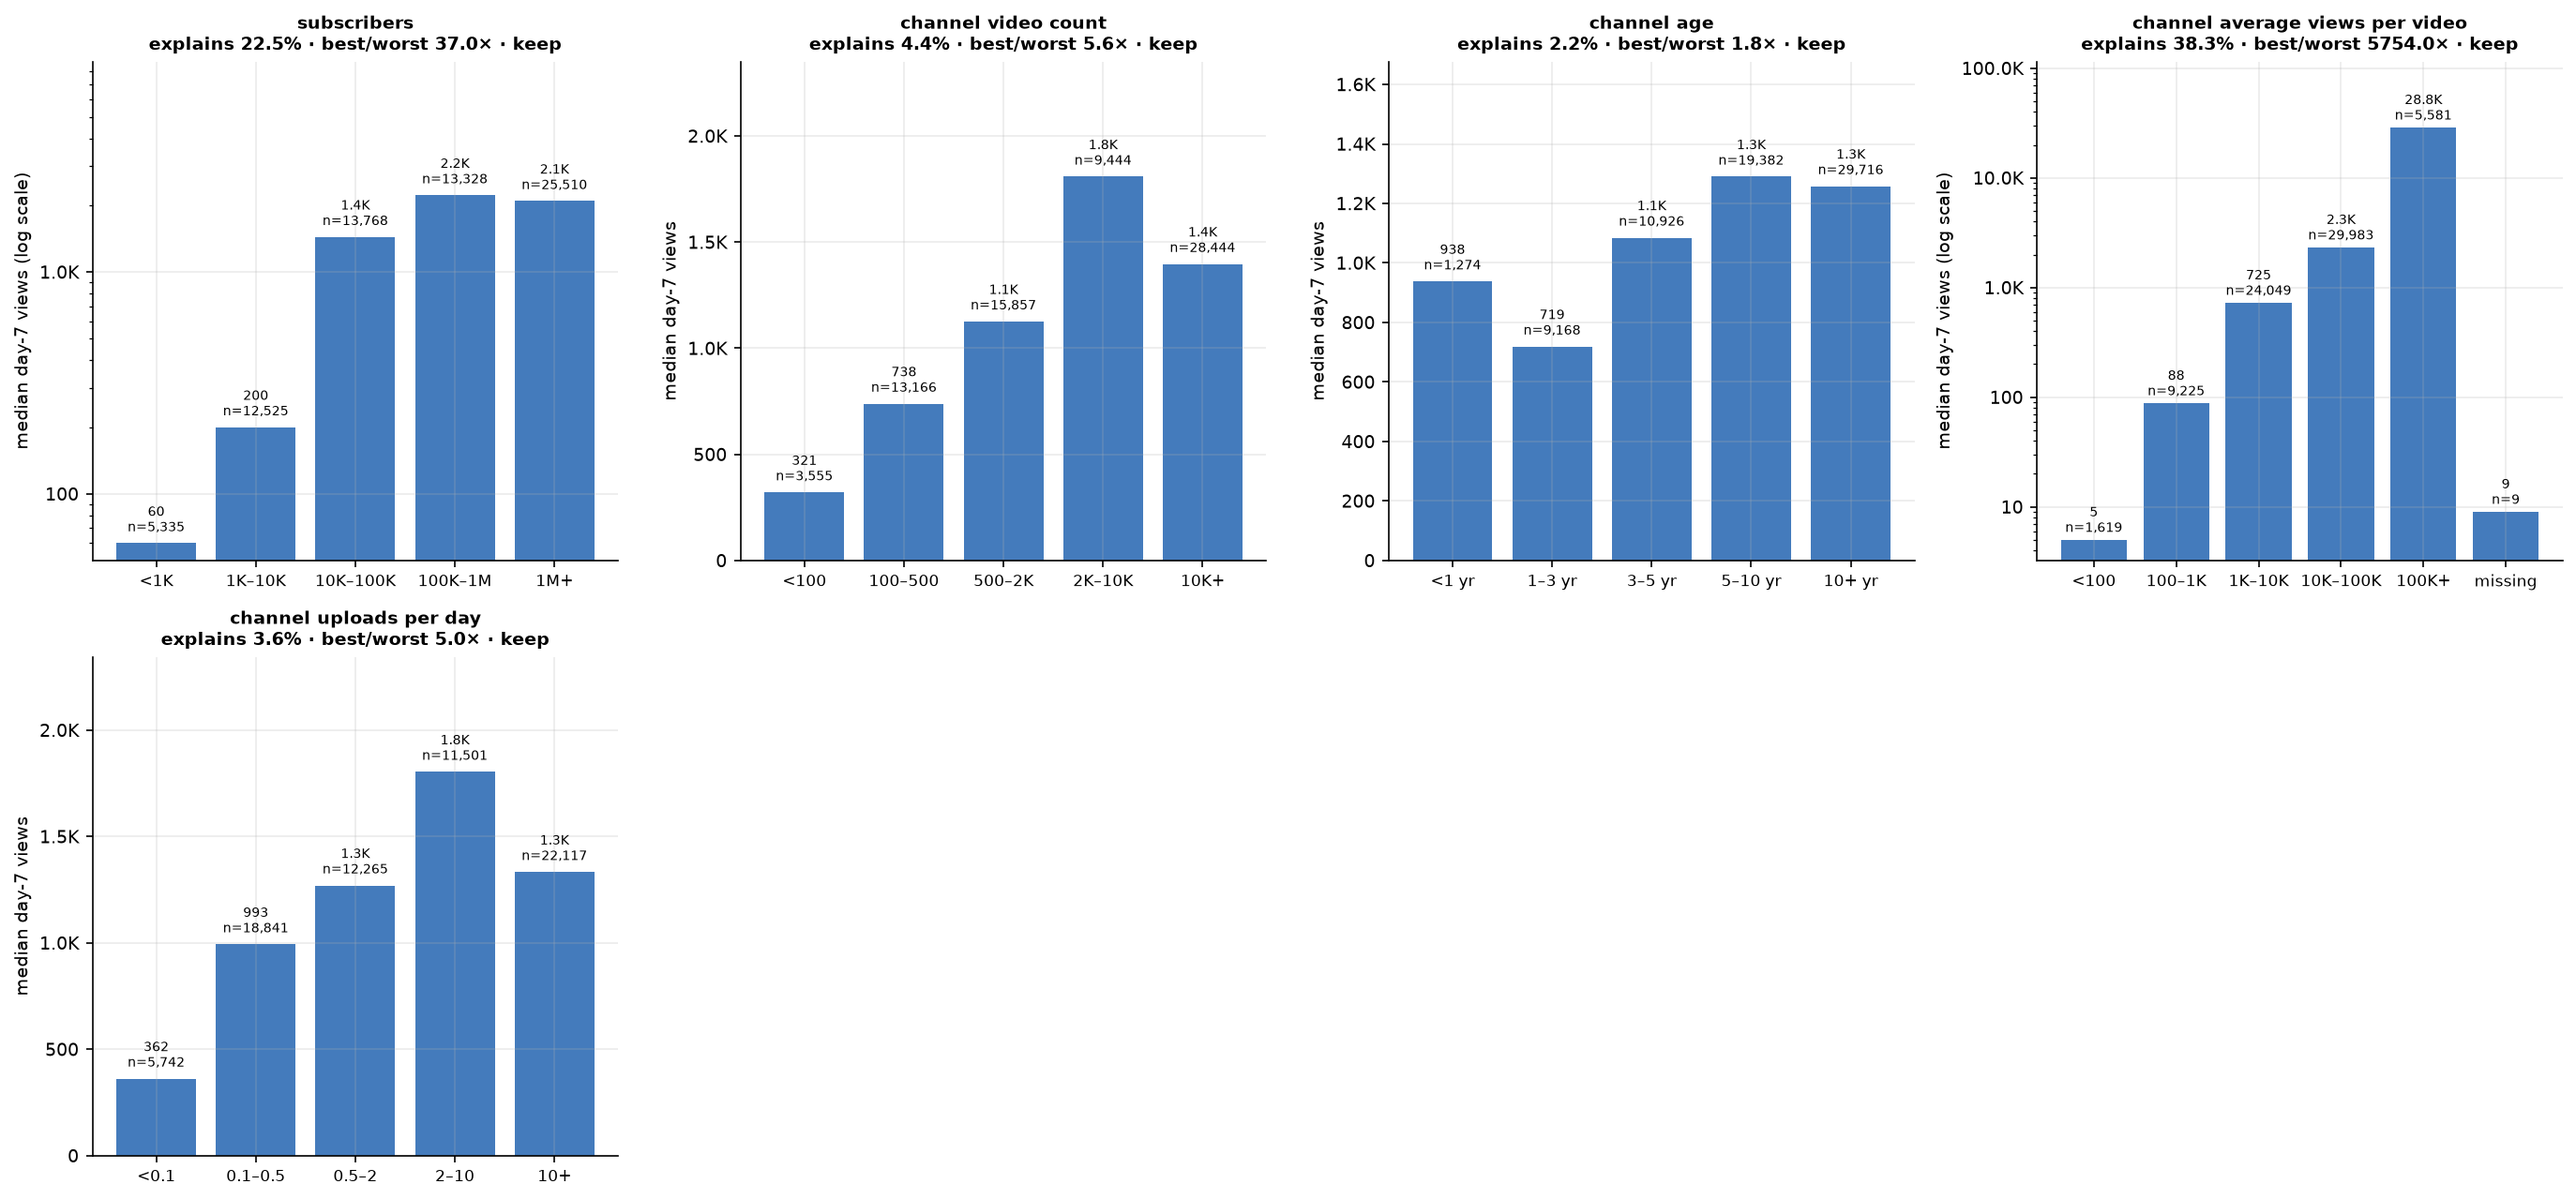
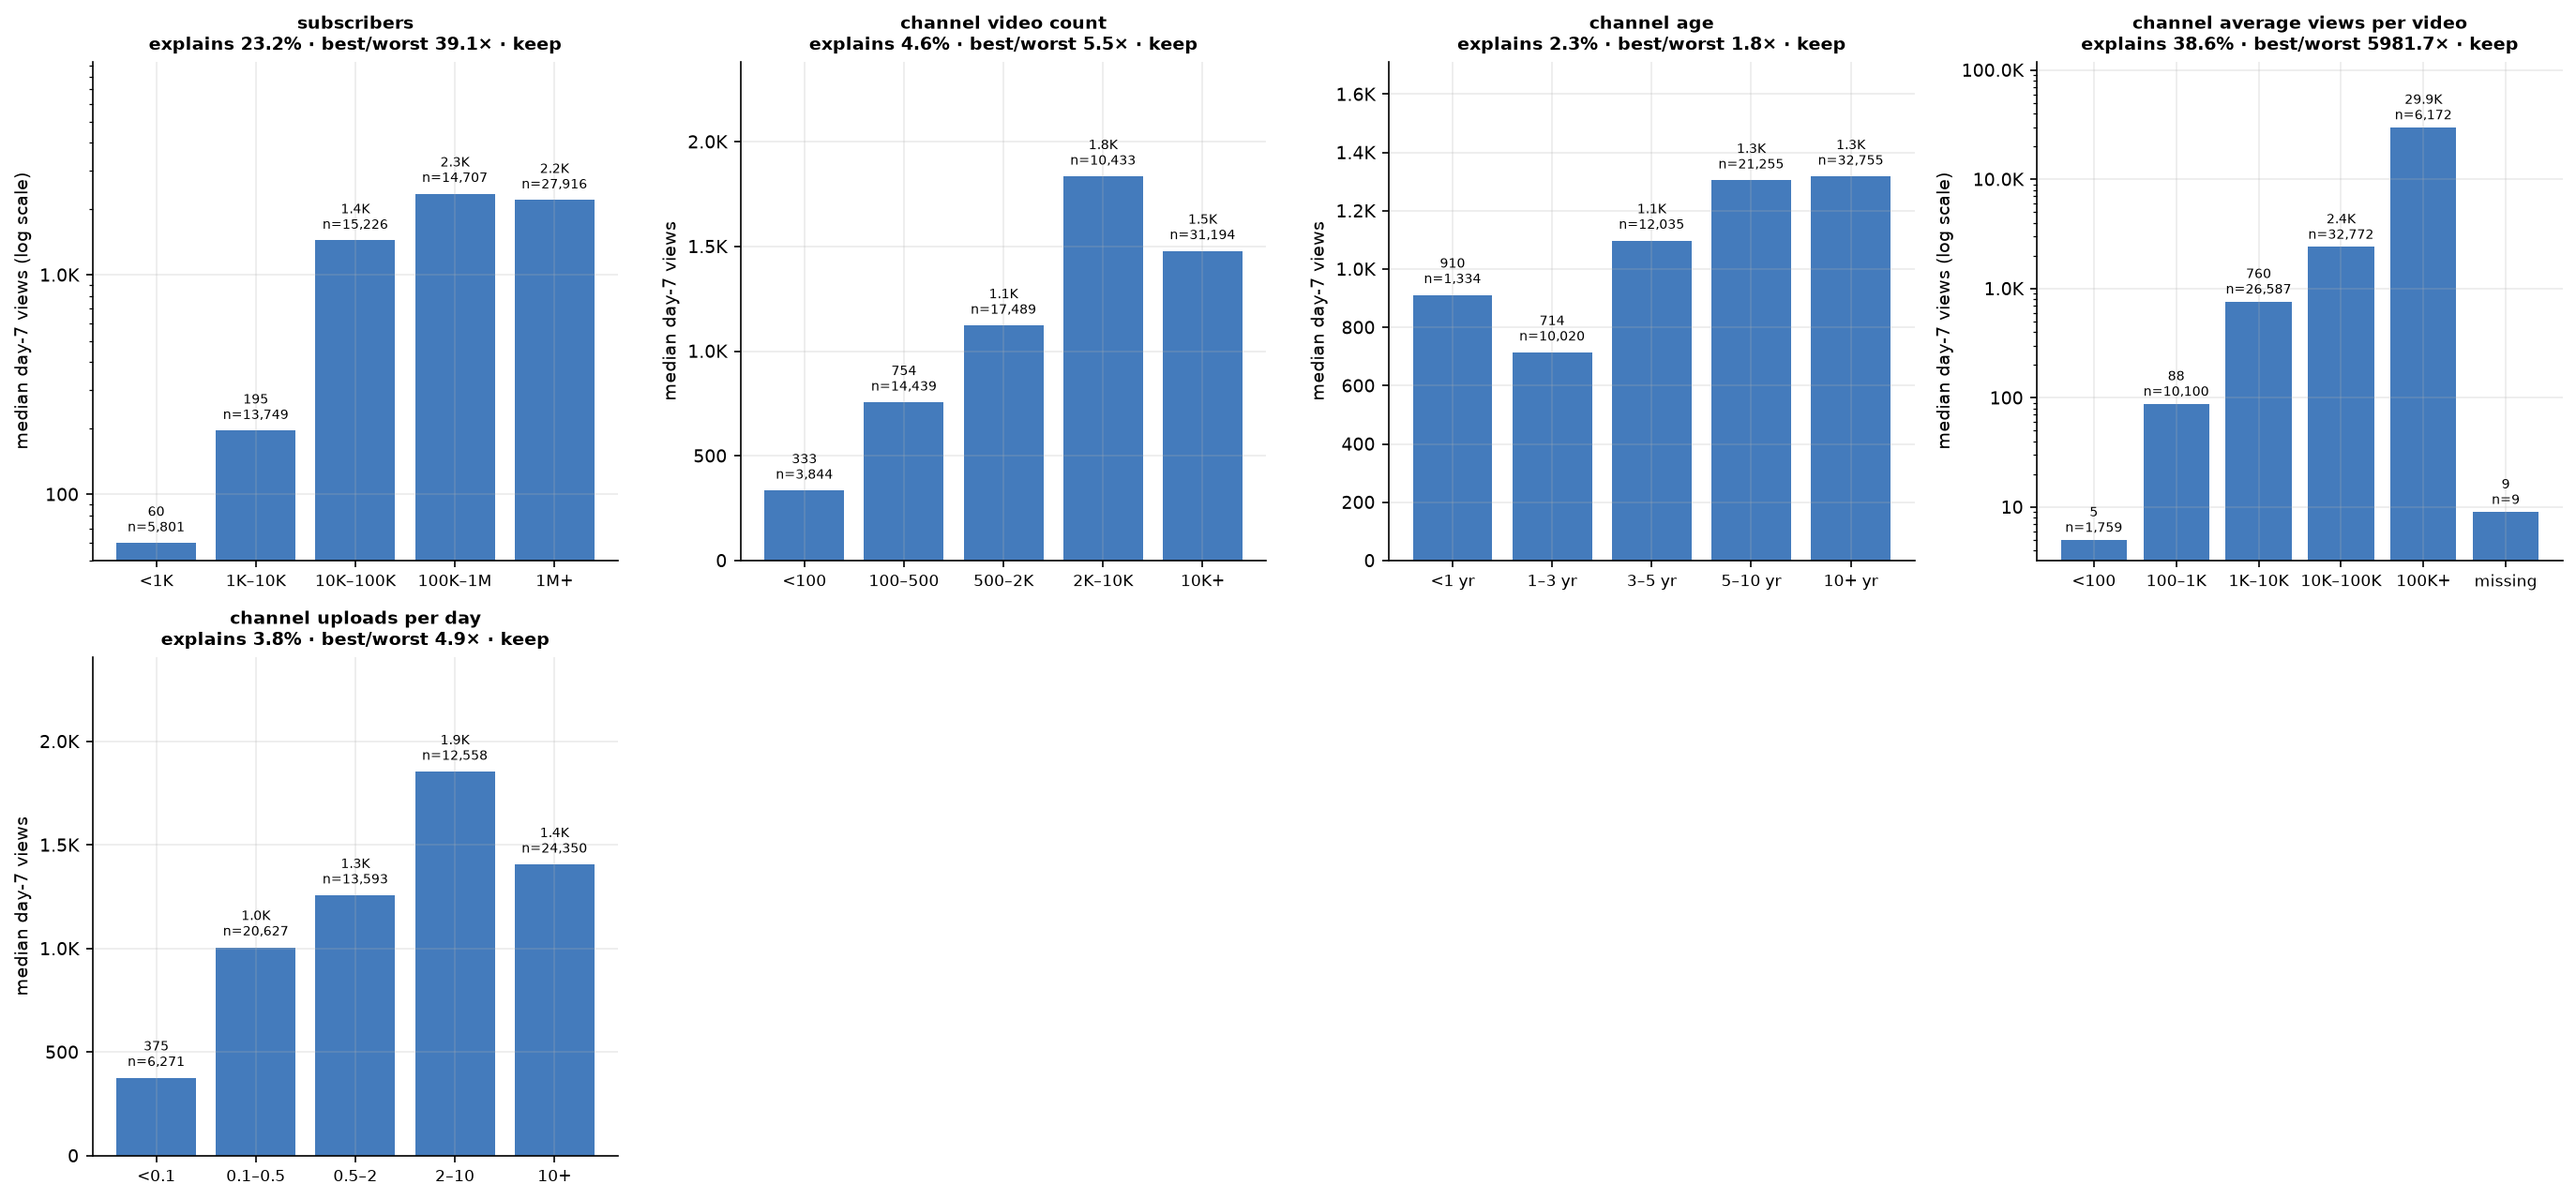
Use the real Shorts flag in the simple feature EDA
The simple feature EDA split Shorts by duration bands. It now reads is_short
from the 18 September build, which comes from the player shape. With the real
flag Shorts get more day-7 views than long-form in every channel size band
(6 to 13 times more under 10K subscribers); within a single channel they beat
its own long-form for 56 to 72% of channels under 100K and about 40% of larger
ones. The earlier finding that long-form wins at 1M+ came from the old <=60 s
rule. FEATURE_RECOMMENDATIONS.md updated to match.

diff --git a/Analysis/build_simple_feature_eda.py b/Analysis/build_simple_feature_eda.py
@@ -87,11 +87,11 @@ def load():
 
     f["duration"] = cut(num("duration_seconds") / 60, [0, 1, 5, 20, 60, inf],
                         ["<1 min", "1–5 min", "5–20 min", "20–60 min", "60+ min"])
-    # YouTube has allowed Shorts up to 3 minutes since October 2024 and the API
-    # has no Shorts flag, so 61 s to 3 min is a mix of Shorts and short
-    # long-form clips. It is kept separate instead of being called long-form.
-    f["Short or long-form"] = cut(num("duration_seconds"), [0, 61, 181, inf],
-                                  ["Short (≤60s)", "61s–3 min (mixed)", "long-form (>3 min)"])
+    # is_short is the real format from the player shape (vertical or square
+    # and at most 3 minutes), not the old duration <= 60 s rule.
+    f["Short or long-form"] = pd.Categorical(
+        d.is_short.fillna(False).astype(bool).map({True: "Short", False: "long-form"}),
+        categories=["Short", "long-form"], ordered=True)
     f["category"] = d.category_name.astype("string")
     lang = d.default_audio_language.astype("string").str.lower().str.split("-").str[0]
     f["audio language"] = lang.where(lang.isin(["si", "en", "ta"]), "other/unknown").map(
@@ -144,8 +144,9 @@ SOURCE = {
 }
 DUPLICATES = {"title word count": "title length (characters)", "weekend": "publish weekday"}
 # Features whose raw comparison is misleading, with the reason (see SF7).
-OVERRIDES = {"Short or long-form": ("keep", "hidden overall by 1M+ channels; for channels under 10K "
-                                             "subscribers Shorts get 6 to 9 times the views (SF7)")}
+OVERRIDES = {"Short or long-form": ("keep", "hidden overall because channel size is mixed in; within "
+                                             "each size band Shorts get more views, 6 to 13 times more "
+                                             "under 10K subscribers (SF7)")}
 PAGES = {
     "SF2_channel_features": ["subscribers", "channel video count", "channel age",
                              "channel average views per video", "channel uploads per day"],
@@ -303,18 +304,18 @@ def shorts_by_channel_size(d, f):
     """SF7: Shorts against long-form within each channel size, and within each channel."""
     fmt, tier = f["Short or long-form"], f["subscribers"]
     names = list(fmt.cat.categories)
-    colours = ["#2F6DB5", "#B8C2CC", "#E08B4B"]
+    colours = ["#2F6DB5", "#E08B4B"]
     tiers = [t for t in tier.cat.categories if (tier == t).sum() >= MIN_N]
     med = d.views.groupby([tier, fmt], observed=True).median().unstack()
     cnt = d.views.groupby([tier, fmt], observed=True).size().unstack()
 
     fig, (a, b) = plt.subplots(1, 2, figsize=(14, 5.2), gridspec_kw={"width_ratios": [3, 2]})
-    x, w = np.arange(len(tiers)), .27
+    x, w = np.arange(len(tiers)), .36
     for i, (name, c) in enumerate(zip(names, colours)):
         m = med.reindex(tiers)[name]
-        a.bar(x + (i - 1) * w, m, w, color=c, label=name)
+        a.bar(x + (i - .5) * w, m, w, color=c, label=name)
         for xi, (v, n) in enumerate(zip(m, cnt.reindex(tiers)[name])):
-            a.text(xi + (i - 1) * w, v * 1.08, f"{short(v)}\nn={n:,}", ha="center", va="bottom", fontsize=6.4)
+            a.text(xi + (i - .5) * w, v * 1.08, f"{short(v)}\nn={n:,}", ha="center", va="bottom", fontsize=6.4)
     a.set_yscale("log")
     a.yaxis.set_minor_formatter(mticker.NullFormatter())
     a.yaxis.set_major_formatter(mticker.FuncFormatter(lambda v, _: short(v)))
@@ -322,11 +323,11 @@ def shorts_by_channel_size(d, f):
     a.set_xticks(x)
     a.set_xticklabels(tiers)
     a.set(xlabel="channel subscribers", ylabel="median day-7 views (log scale)",
-          title="Shorts get far more views for channels under 100K subscribers")
+          title="Shorts get more day-7 views than long-form at every channel size")
     a.legend(fontsize=8, loc="upper left")
 
     # Same channel, both formats: does its Shorts' median beat its own long-form median?
-    short_, long_ = names[0], names[2]
+    short_, long_ = names[0], names[1]
     g = pd.DataFrame({"channel": d.channel_id, "fmt": fmt, "tier": tier, "views": d.views})
     g = g[g.fmt.isin([short_, long_])]
     per = g.groupby(["channel", "fmt"], observed=True).views.agg(["median", "size"]).unstack()

diff --git a/Analysis/eda_figures/simple_features/simple_feature_table.md b/Analysis/eda_figures/simple_features/simple_feature_table.md
@@ -1,4 +1,4 @@
-# Simple feature table (70,466 videos with a day-7 view count)
+# Simple feature table (77,399 videos with a day-7 view count)
 
 Explains % = share of the variation in day-7 views the feature accounts for on its own. Best/worst = median views in the best group divided by the worst (groups of 200+ videos).
 
@@ -6,30 +6,30 @@ Rule: keep a feature if it explains at least 1%, or its best group gets at least
 
 | feature | explains | best/worst | most common value | where it comes from | verdict | reason |
 |---|---|---|---|---|---|---|
-| channel average views per video | 38.3% | 5754.0× | 43% | looked up from the channel | keep | views change clearly across its values |
-| subscribers | 22.5% | 37.0× | 36% | looked up from the channel | keep | views change clearly across its values |
-| YouTube topic | 10.1% | 29.4× | 25% | not available before publishing | useful, but unknown before publishing | YouTube only assigns it after a video is uploaded |
-| category | 9.4% | 92.0× | 31% | on the form | keep | views change clearly across its values |
-| channel video count | 4.4% | 5.6× | 40% | looked up from the channel | keep | views change clearly across its values |
-| title script | 3.7% | 3.3× | 72% | worked out from the title | keep | views change clearly across its values |
-| channel uploads per day | 3.6% | 5.0× | 31% | looked up from the channel | keep | views change clearly across its values |
-| audio language | 3.1% | 2.9× | 53% | on the form | keep | views change clearly across its values |
-| tag count | 2.8% | 2.2× | 45% | not on the form | useful, needs a new form field | views change with it, but the form doesn't ask for it |
-| channel age | 2.2% | 1.8× | 42% | looked up from the channel | keep | views change clearly across its values |
-| publish hour (SLT) | 1.7% | 5.9× | 7% | on the form (optional) | keep | views change clearly across its values |
-| duration | 1.4% | 4.0× | 39% | on the form | keep | views change clearly across its values |
-| capital letters in title | 1.2% | 3.2× | 47% | worked out from the title | keep | views change clearly across its values |
-| Short or long-form | 1.0% | 2.1× | 40% | should be asked on the form | keep | hidden overall by 1M+ channels; for channels under 10K subscribers Shorts get 6 to 9 times the views (SF7) |
-| made for kids | 0.8% | 40.7× | 99% | not on the form | drop | almost every video has the same value (99%) |
-| title word count | 0.7% | 1.6× | 35% | worked out from the title | drop | views barely change across its values |
-| description length | 0.7% | 1.9× | 41% | not on the form | drop | views barely change across its values |
-| title length (characters) | 0.5% | 1.2× | 26% | worked out from the title | drop | views barely change across its values |
-| exclamation mark in title | 0.4% | 1.7× | 93% | worked out from the title | drop | views barely change across its values |
-| definition | 0.4% | 2.3× | 96% | not on the form | drop | almost every video has the same value (96%) |
-| publish weekday | 0.1% | 1.2× | 15% | on the form (optional) | drop | views barely change across its values |
-| question mark in title | 0.0% | 1.3× | 94% | worked out from the title | drop | views barely change across its values |
-| captions | 0.0% |  | 100% | not on the form | drop | almost every video has the same value (100%) |
-| weekend | 0.0% | 1.1× | 73% | on the form (optional) | drop | views barely change across its values |
+| channel average views per video | 38.6% | 5981.7× | 42% | looked up from the channel | keep | views change clearly across its values |
+| subscribers | 23.2% | 39.1× | 36% | looked up from the channel | keep | views change clearly across its values |
+| YouTube topic | 10.3% | 28.7× | 25% | not available before publishing | useful, but unknown before publishing | YouTube only assigns it after a video is uploaded |
+| category | 9.7% | 89.4× | 31% | on the form | keep | views change clearly across its values |
+| channel video count | 4.6% | 5.5× | 40% | looked up from the channel | keep | views change clearly across its values |
+| title script | 4.0% | 3.4× | 72% | worked out from the title | keep | views change clearly across its values |
+| channel uploads per day | 3.8% | 4.9× | 31% | looked up from the channel | keep | views change clearly across its values |
+| audio language | 3.3% | 2.9× | 53% | on the form | keep | views change clearly across its values |
+| tag count | 3.0% | 2.2× | 44% | not on the form | useful, needs a new form field | views change with it, but the form doesn't ask for it |
+| channel age | 2.3% | 1.8× | 42% | looked up from the channel | keep | views change clearly across its values |
+| publish hour (SLT) | 1.7% | 6.2× | 7% | on the form (optional) | keep | views change clearly across its values |
+| duration | 1.6% | 4.1× | 39% | on the form | keep | views change clearly across its values |
+| capital letters in title | 1.2% | 3.0× | 47% | worked out from the title | keep | views change clearly across its values |
+| title word count | 0.8% | 1.6× | 35% | worked out from the title | drop | views barely change across its values |
+| made for kids | 0.7% | 41.7× | 99% | not on the form | drop | almost every video has the same value (99%) |
+| description length | 0.7% | 1.8× | 41% | not on the form | drop | views barely change across its values |
+| title length (characters) | 0.6% | 1.2× | 26% | worked out from the title | drop | views barely change across its values |
+| exclamation mark in title | 0.4% | 1.6× | 93% | worked out from the title | drop | views barely change across its values |
+| definition | 0.3% | 2.1× | 96% | not on the form | drop | almost every video has the same value (96%) |
+| Short or long-form | 0.1% | 1.1× | 60% | should be asked on the form | keep | hidden overall because channel size is mixed in; within each size band Shorts get more views, 6 to 13 times more under 10K subscribers (SF7) |
+| publish weekday | 0.1% | 1.1× | 16% | on the form (optional) | drop | views barely change across its values |
+| question mark in title | 0.0% | 1.2× | 94% | worked out from the title | drop | views barely change across its values |
 | number in title | 0.0% | 1.1× | 69% | worked out from the title | drop | views barely change across its values |
+| captions | 0.0% |  | 100% | not on the form | drop | almost every video has the same value (100%) |
+| weekend | 0.0% | 1.1× | 75% | on the form (optional) | drop | views barely change across its values |
 
 Note: these are raw comparisons. Large channels dominate some of them, category most of all: News and Politics looks weak here only because a few channels post very many clips each. Short or long-form is the clearest case of an effect hidden this way, so its verdict is set from the channel-size split in SF7.

diff --git a/Analysis/eda_figures/feature_study/FEATURE_RECOMMENDATIONS.md b/Analysis/eda_figures/feature_study/FEATURE_RECOMMENDATIONS.md
@@ -69,11 +69,15 @@ missing at serving costs 0.05 to 0.17.
 * **Short or long-form: replace `is_short`, do not drop it.** The old flag was
   just `duration_seconds <= 60`, so it added nothing the tree could not already
   read from duration (Δ within noise at every horizon). That was a flaw in the
-  flag, not a sign the format does not matter. Split by channel size, Shorts get
-  6 to 9 times the day-7 views of long-form for channels under 10K subscribers,
-  and only lose at 1M+ (`Analysis/eda_figures/simple_features/SF7_shorts_by_channel_size.png`).
-  The ≤60 s rule also misses Shorts of 61 s to 3 min, allowed since October 2024.
-  From 18 September the training table's `is_short` is the real format:
+  flag, not a sign the format does not matter. With the real flag, Shorts get
+  more day-7 views than long-form in every channel size band, 6 to 13 times more
+  under 10K subscribers. Within a single channel it varies: Shorts beat the
+  channel's own long-form for 56 to 72% of channels under 100K subscribers and
+  about 40% of larger ones, so the model should learn it together with channel
+  size (`Analysis/eda_figures/simple_features/SF7_shorts_by_channel_size.png`).
+  The ≤60 s rule also missed Shorts of 61 s to 3 min, allowed since October 2024,
+  and counted about 7,500 short horizontal clips as Shorts.
+  From the 18 September build the training table's `is_short` is the real format:
   vertical or square player and at most 3 minutes (`video_shapes` table,
   `is_short_source` says whether shape or the old rule decided it). At serving
   the creator says which they are making, so the form needs a
